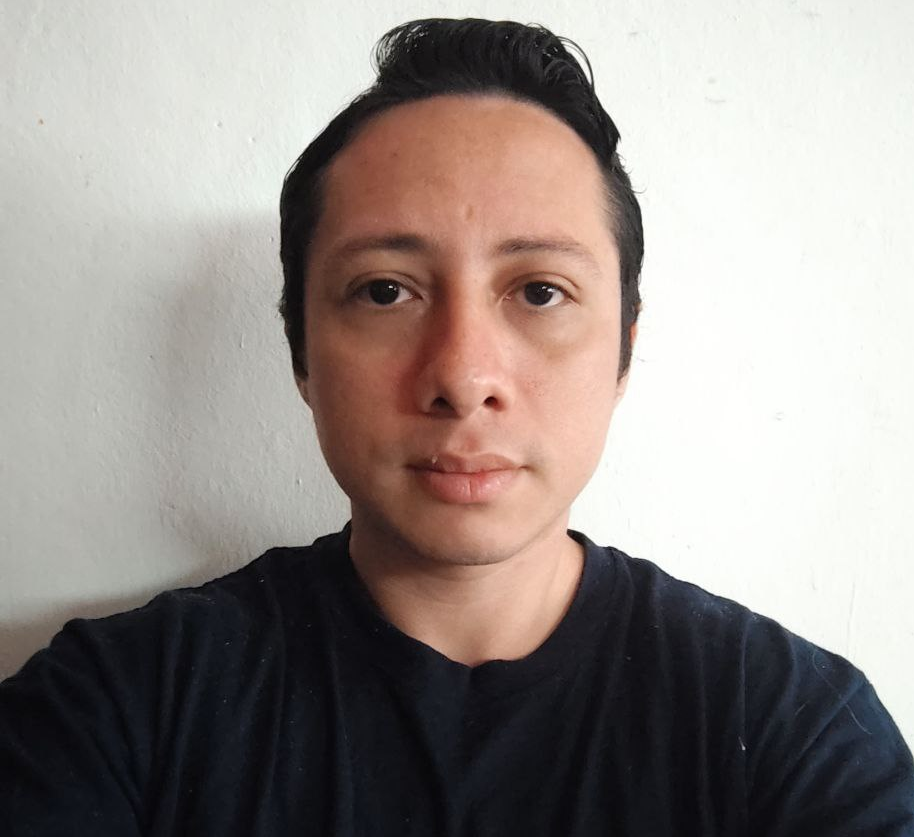
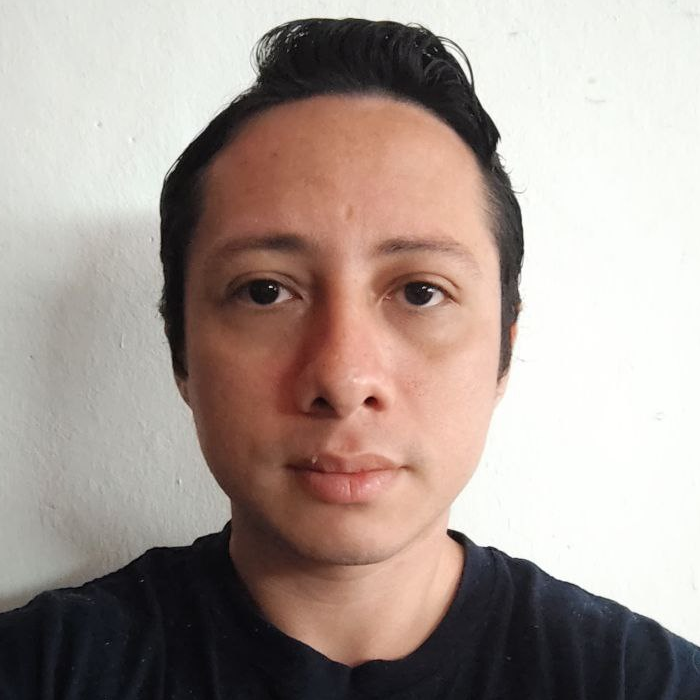
- Agregar secciones responsive - Actualizar foto de perfil

diff --git a/src/app/pages/home/home.html b/src/app/pages/home/home.html
@@ -1,8 +1,8 @@
 <div class="home-container min-h-screen">
   @if (canditate) {
-    <header class="candidate-header fixed top-0 left-0 w-full shadow-md z-50">
-      <img class="size-18 rounded-full" src="assets/images/profile.png" />
-      <div class="flex flex-col">
+    <header class="candidate-header">
+      <img class="size-16 rounded-full" src="assets/images/profile.png" />
+      <div class="hidden flex-col md:flex">
         <h1 class="candidate-title">Hi! I'm {{ canditate.name }} {{ canditate.lastName }}</h1>
         <h2 class="candidate-subtitle">{{ canditate.position }}</h2>
         <div class="skills-icons">
@@ -16,18 +16,22 @@
       </div>
       <div class="home-menu">
         <nav>
-          <ul>
-            <li><a appSmoothClick smoothTarget="about">About me</a></li>
+          <ul class="hidden sm:block">
+            <li><a appSmoothClick smoothTarget="about" [isFirstTarget]="true">About me</a></li>
+            <li><a appSmoothClick smoothTarget="skills">Skills</a></li>
             <li><a appSmoothClick smoothTarget="experience">Experince</a></li>
             <li><a appSmoothClick smoothTarget="education">Education</a></li>
-            <li><a appSmoothClick smoothTarget="skills">Skills</a></li>
           </ul>
+          <button data-collapse-toggle="mega-menu" type="button" class="inline-flex items-center p-2 w-10 h-10 justify-center text-sm text-body rounded-lg md:hidden hover:bg-neutral-secondary-soft hover:text-heading focus:outline-none focus:ring-2 focus:ring-default" aria-controls="mega-menu" aria-expanded="false">
+              <span class="sr-only">Open main menu</span>
+              <svg class="w-6 h-6" aria-hidden="true" xmlns="http://www.w3.org/2000/svg" width="24" height="24" fill="none" viewBox="0 0 24 24"><path stroke="currentColor" stroke-linecap="round" stroke-width="2" d="M5 7h14M5 12h14M5 17h14"/></svg>
+          </button>
         </nav>
       </div>
     </header>
 
-    <main class="home-content pt-16">
-      <div class="w-2/3">
+    <main class="home-content pt-20 md:pt-32 lg:pt-16">
+      <div class="w-full md:w-2/3">
         <!-- About -->
         <div class="section-card" id="about">
           <h2 class="experience-supertitle mt-2 mb-2">About me</h2>
@@ -71,7 +75,8 @@
           <timeline [items]="educationTimeline"  />
         </div>
       </div>
-      <div class="section-card contact-section w-1/3">
+      <!-- Contact -->
+      <div class="section-card contact-section w-full md:w-1/3">
         <div class="flex flex-col gap-1">
           <h2 class="experience-supertitle"> <fa-icon [icon]="faEnvelope"/> Contact</h2>
           <ul class="contact-section-list">

diff --git a/src/app/directives/smooth-click.ts b/src/app/directives/smooth-click.ts
@@ -11,15 +11,20 @@ export class SmoothClick {
   private readonly scrollService = inject(ViewportScroller);
 
   public smoothTarget = input<string>('');
+  public isFirstTarget = input<boolean>(false);
 
-  constructor() {
-   }
-
-   @HostListener('click', ['$event'])
-   public onHyperLinkClick(event : Event) {
+  @HostListener('click', ['$event'])
+  public onHyperLinkClick(event : Event) {
     event.preventDefault();
-    if (this.smoothTarget()) {
-      this.scrollService.scrollToAnchor(this.smoothTarget(), { behavior: 'smooth', });
+
+    if (this.isFirstTarget()) {
+      this.scrollService.scrollToPosition([0,0], { behavior: 'smooth' });
+      return;
+    }
+
+    const smoothElement: HTMLElement = <HTMLElement>document.getElementById(this.smoothTarget());
+    if (smoothElement) {
+      this.scrollService.scrollToAnchor(smoothElement.id, { behavior: 'smooth', });
       this.scrollService.setOffset([0, 100])
     }
    }

diff --git a/src/app/pages/home/home.css b/src/app/pages/home/home.css
@@ -9,11 +9,11 @@
 }
 
 .home-content {
-  @apply flex flex-col sm:flex-row gap-2;
+  @apply flex flex-col-reverse sm:flex-row gap-2;
 }
 
 div.home-menu {
-  @apply ml-auto;
+  @apply ml-auto sm:mr-0 sm:ml-auto;
 }
 
 .home-menu nav ul{
@@ -21,7 +21,11 @@ div.home-menu {
 }
 
 .home-menu nav ul li{
-  @apply bg-[#60a5fa] text-[#012] py-2.5 px-3.5 mx-1 rounded-full font-semibold decoration-0 inline-block cursor-pointer;
+  @apply bg-[#60a5fa] text-[#012] py-2.5 px-3.5 mx-1 my-1 lg:my-0 rounded-full font-semibold decoration-0 inline-block cursor-pointer;
+}
+
+.candidate-header {
+  @apply flex flex-row gap-2 w-full py-4 bg-[#071028] fixed content-center top-0 left-0 shadow-md z-50;
 }
 
 .candidate-title {
@@ -32,9 +36,6 @@ div.home-menu {
   @apply text-[14px] text-[#94a3b8];
 }
 
-.candidate-header {
-  @apply flex flex-row items-center gap-2 w-full h-25 bg-[#071028];
-}
 
 .candidate-info {
   @apply flex flex-col w-1/4;
